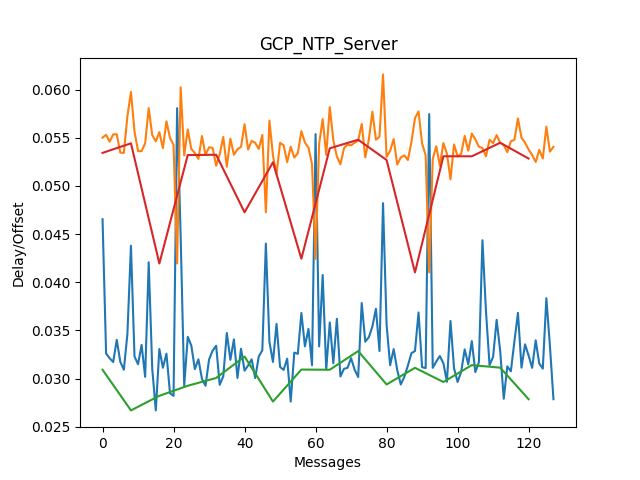
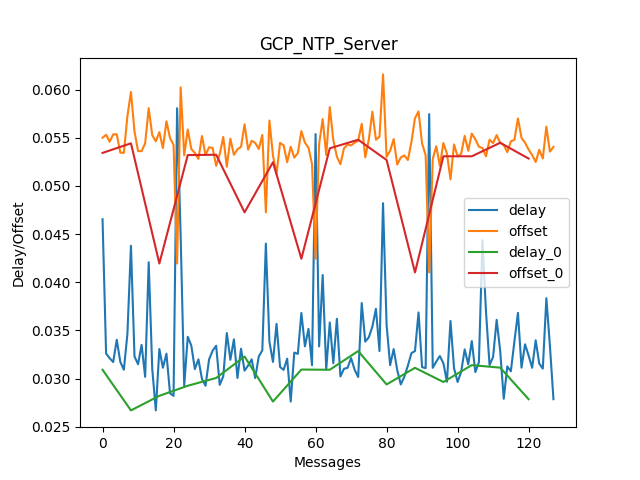
Updating graphs with labels

Changed region(s): [[0.7188, 0.4062, 0.9062, 0.625]]

diff --git a/ntp_client/plot.py b/ntp_client/plot.py
@@ -12,15 +12,15 @@ def plot(total_delay, total_offset, delay, offset, name, src_dir):
     pyplot.plot([i*8 for i in range(0,len(offset))], offset, label='offset_0')
     pyplot.xlabel("Messages")
     pyplot.ylabel("Delay/Offset")
-    pyplot.title(name)
-    pyplot.savefig(f"{src_dir}/graphs/Graph_{name}.png")
+    pyplot.title(name)    
     pyplot.legend()
+    pyplot.savefig(f"{src_dir}/graphs/Graph_{name}.png")
     #pyplot.show()
 
   
 if __name__ == "__main__":
     src_dir = pathlib.Path(__file__).parent.resolve()
-    filepath = os.getenv("FILE",f"{src_dir}/logs/plotting_data_pool.ntp.org.json")
+    filepath = os.getenv("FILE",f"{src_dir}/logs/plotting_data_localhost.json")
     server_type = os.getenv("SERVER","Local_NTP_Server")
     with open(filepath,"r") as f:
         data = json.loads(f.read())
